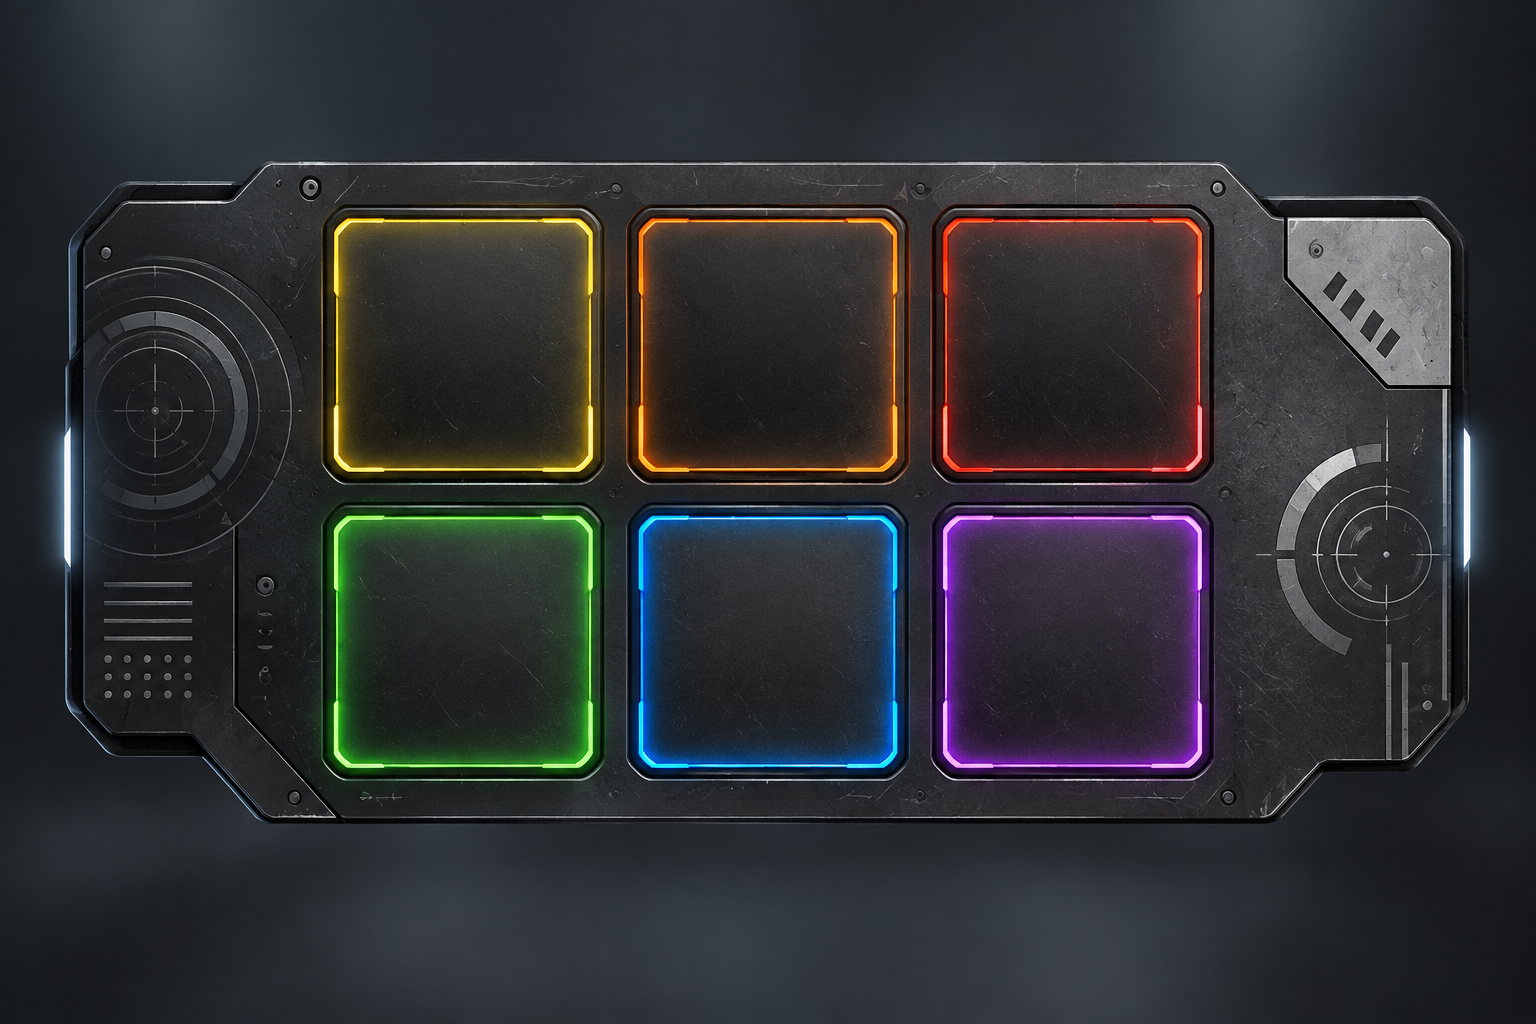
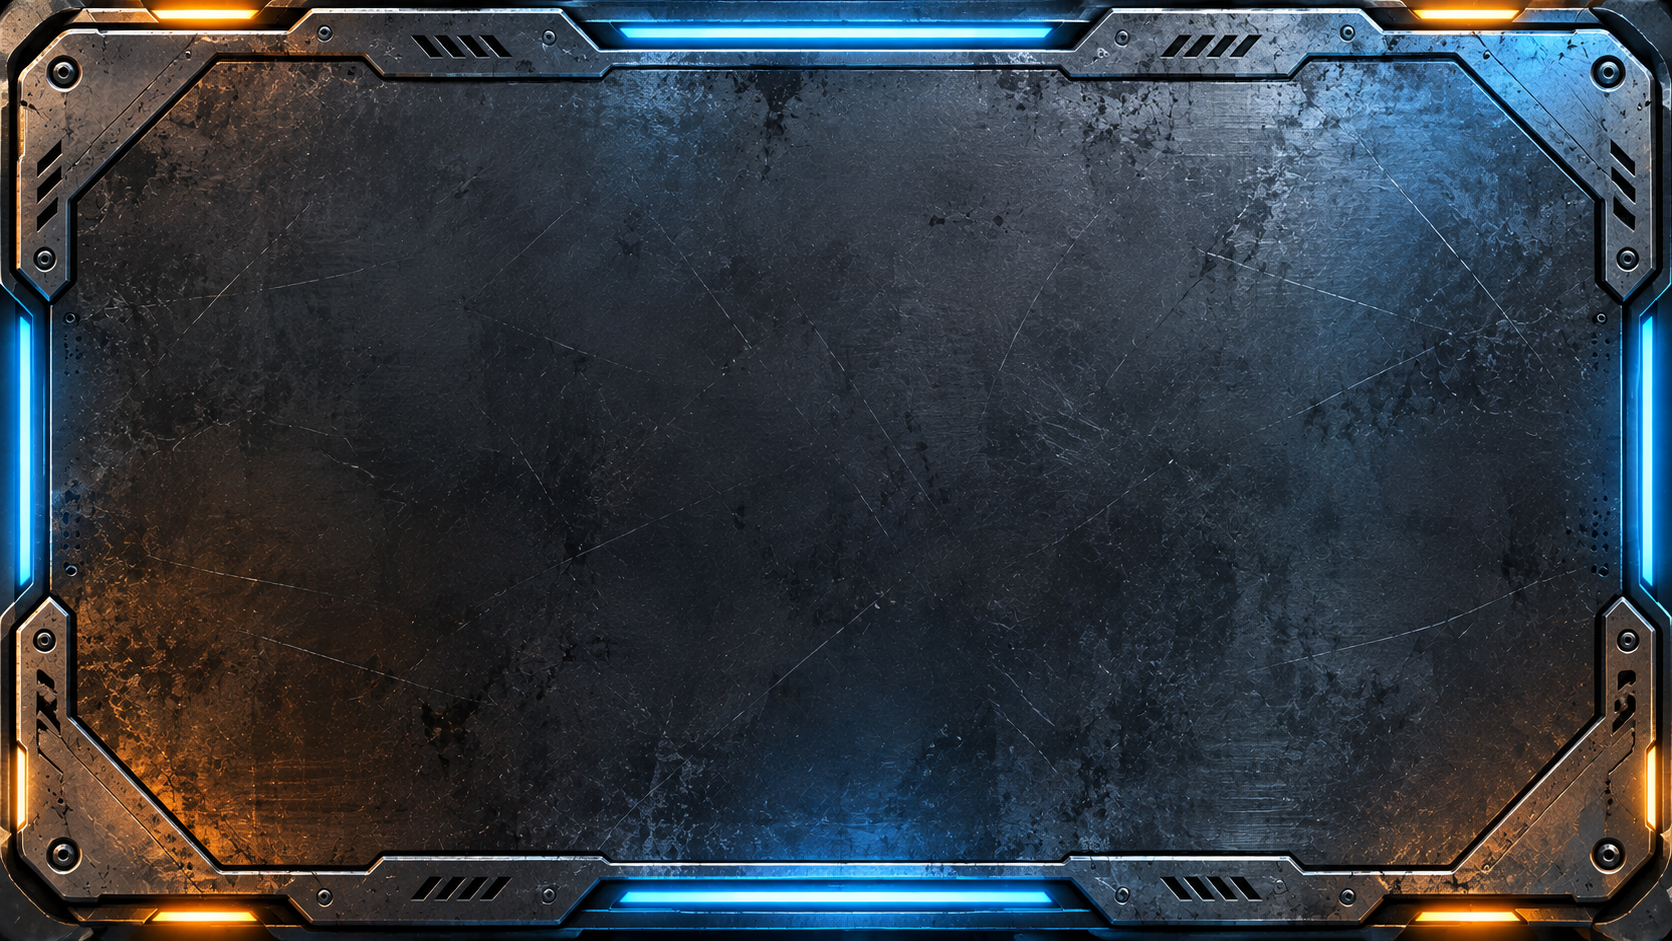
atualizacao

diff --git a/geek2/index_x.html b/geek2/index_x.html
@@ -26,25 +26,15 @@ html,body{margin:0;width:100%;height:100%;overflow:hidden;background:#111}
     <img id="m4" src="./m4.png" crossorigin="anonymous">
     <img id="m5" src="./m5.png" crossorigin="anonymous">
     <img id="m6" src="./m6.png" crossorigin="anonymous">
-    <img id="fundo2a" src="./fundo2a.png" crossorigin="anonymous">
-    <img id="fundo2b" src="./fundo2b.png" crossorigin="anonymous">
-    <img id="fundo3a" src="./fundo3a.png" crossorigin="anonymous">
-    <img id="fundo3b" src="./fundo3b.png" crossorigin="anonymous">
-    <img id="fundo4a" src="./fundo4a.png" crossorigin="anonymous">
-    <img id="fundo4b" src="./fundo4b.png" crossorigin="anonymous">
-    <img id="fundo5a" src="./fundo5a.png" crossorigin="anonymous">
-    <img id="fundo5b" src="./fundo5b.png" crossorigin="anonymous">
-    <img id="fundo6a" src="./fundo6a.png" crossorigin="anonymous">
-    <img id="fundo6b" src="./fundo6b.png" crossorigin="anonymous">
+    <img id="fundo2" src="./fundo2.png" crossorigin="anonymous">
+    <img id="fundo3" src="./fundo3.png" crossorigin="anonymous">
+    <img id="fundo4" src="./fundo4.png" crossorigin="anonymous">
+    <img id="fundo5" src="./fundo5.png" crossorigin="anonymous">
+    <img id="fundo6" src="./fundo6.png" crossorigin="anonymous">
   </a-assets>
 
   <!-- O fundo 360 é carregado somente quando o visitante escolhe uma opção -->
-  <!-- Duas camadas 360: B fica atrás e gira; A fica por cima com transparência -->
-  <a-sky id="fundoB" radius="500" visible="false"
-    material="shader:flat; opacity:1"
-    animation__giro="property:rotation; to:0 360 0; dur:180000; loop:true; easing:linear"></a-sky>
-  <a-sky id="fundoA" radius="499" visible="false"
-    material="shader:flat; transparent:true; alphaTest:0.01; opacity:1"></a-sky>
+  <a-sky id="fundo" visible="false" material="shader:flat; opacity:1"></a-sky>
 
   <!-- MENU FIXO NO AMBIENTE -->
   <a-entity id="menuFixo" position="0 1.55 -2.00" scale="0.5 0.5 0.5">
@@ -110,8 +100,7 @@ html,body{margin:0;width:100%;height:100%;overflow:hidden;background:#111}
 </a-scene>
 
 <script>
-const fundoA = document.getElementById('fundoA');
-const fundoB = document.getElementById('fundoB');
+const fundo = document.getElementById('fundo');
 let atual = null;
 
 function selecionarNeon(id) {
@@ -120,50 +109,51 @@ function selecionarNeon(id) {
     g.setAttribute('material', 'opacity', 0);
     g.setAttribute('scale', '1 1 1');
   });
+
   const glow = document.getElementById('glow' + id);
   if (!glow) return;
-  glow.setAttribute('material', 'opacity', 0.95);
-  glow.setAttribute('animation__pulse',
-    'property:scale; from:1 1 1; to:1.045 1.045 1.045; dir:alternate; loop:true; dur:650; easing:easeInOutSine');
-}
 
-function aplicarCamadas(id) {
-  fundoB.setAttribute('material', 'src', '#fundo' + id + 'b');
-  fundoA.setAttribute('material', 'src', '#fundo' + id + 'a');
-  fundoA.setAttribute('material', 'transparent', true);
-  fundoA.setAttribute('material', 'alphaTest', 0.01);
-  fundoA.setAttribute('visible', true);
-  fundoB.setAttribute('visible', true);
+  glow.setAttribute('material', 'opacity', 0.95);
+  glow.setAttribute(
+    'animation__pulse',
+    'property:scale; from:1 1 1; to:1.045 1.045 1.045; dir:alternate; loop:true; dur:650; easing:easeInOutSine'
+  );
 }
 
 function carregar360(id) {
   if (id === 1 || id === atual) return;
+
   selecionarNeon(id);
 
-  [fundoA, fundoB].forEach(f => {
-    f.removeAttribute('animation__out');
-    f.removeAttribute('animation__in');
-  });
+  // Usa diretamente os assets do A-Frame. Sem XHR, Blob ou barra de carregamento.
+  fundo.removeAttribute('animation__out');
+  fundo.removeAttribute('animation__in');
 
-  if (atual === null) {
-    aplicarCamadas(id);
-    fundoA.setAttribute('material', 'opacity', 0);
-    fundoB.setAttribute('material', 'opacity', 0);
-    fundoA.setAttribute('animation__in', 'property:material.opacity; from:0; to:1; dur:450; easing:easeInOutQuad');
-    fundoB.setAttribute('animation__in', 'property:material.opacity; from:0; to:1; dur:450; easing:easeInOutQuad');
+  if (!fundo.getAttribute('visible')) {
+    fundo.setAttribute('material', 'src', '#fundo' + id);
+    fundo.setAttribute('material', 'opacity', 0);
+    fundo.setAttribute('visible', true);
+    fundo.setAttribute(
+      'animation__in',
+      'property:material.opacity; from:0; to:1; dur:450; easing:easeInOutQuad'
+    );
     atual = id;
     return;
   }
 
-  fundoA.setAttribute('animation__out', 'property:material.opacity; from:1; to:0; dur:180; easing:easeInOutQuad');
-  fundoB.setAttribute('animation__out', 'property:material.opacity; from:1; to:0; dur:180; easing:easeInOutQuad');
+  fundo.setAttribute(
+    'animation__out',
+    'property:material.opacity; from:1; to:0; dur:180; easing:easeInOutQuad'
+  );
 
   setTimeout(() => {
-    aplicarCamadas(id);
-    fundoA.setAttribute('material', 'opacity', 0);
-    fundoB.setAttribute('material', 'opacity', 0);
-    fundoA.setAttribute('animation__in', 'property:material.opacity; from:0; to:1; dur:450; easing:easeInOutQuad');
-    fundoB.setAttribute('animation__in', 'property:material.opacity; from:0; to:1; dur:450; easing:easeInOutQuad');
+    fundo.removeAttribute('animation__out');
+    fundo.setAttribute('material', 'src', '#fundo' + id);
+    fundo.setAttribute('material', 'opacity', 0);
+    fundo.setAttribute(
+      'animation__in',
+      'property:material.opacity; from:0; to:1; dur:450; easing:easeInOutQuad'
+    );
     atual = id;
   }, 190);
 }
